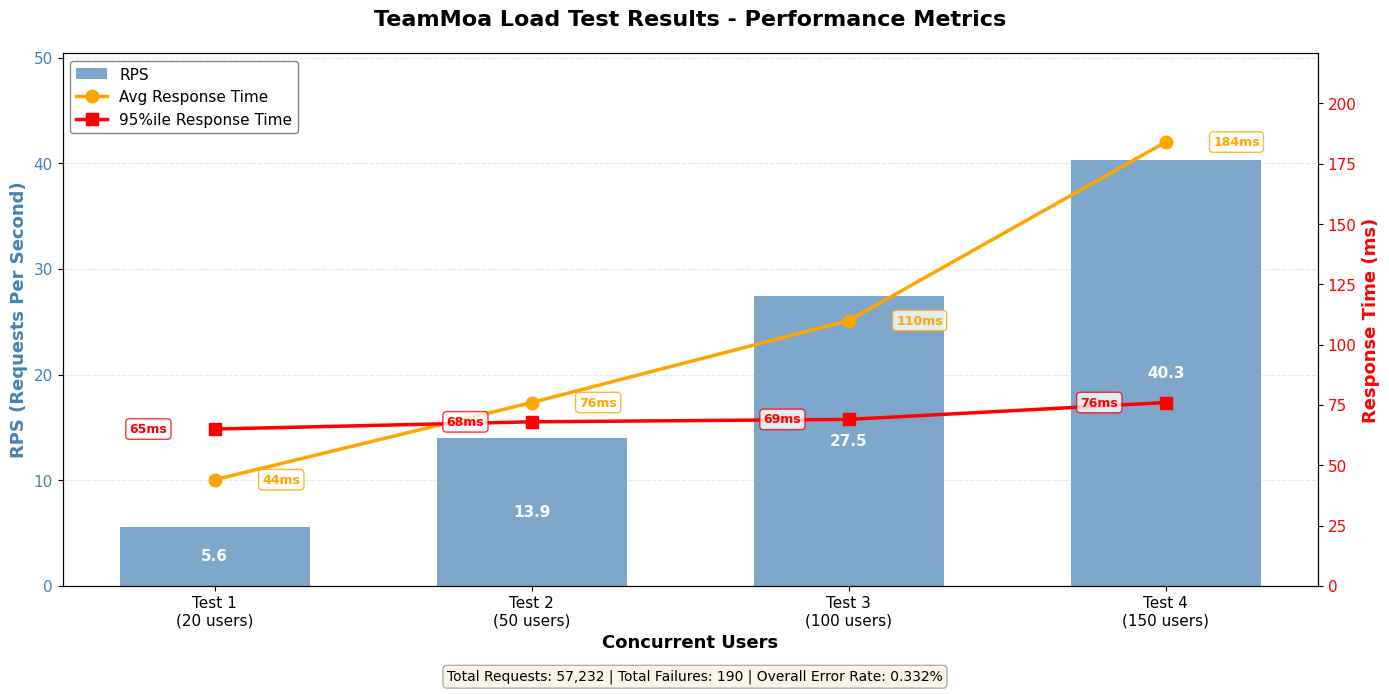
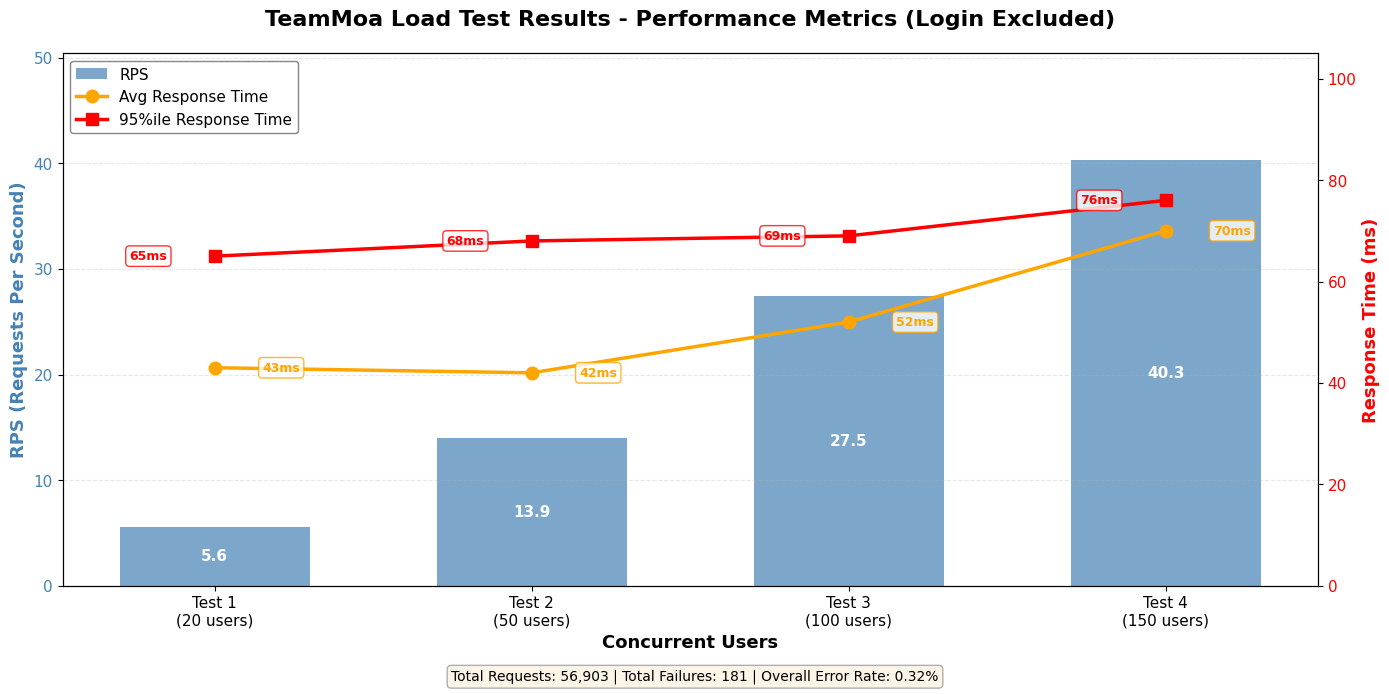
docs: README 부하 테스트 데이터 정확도 개선 및 Live Demo 강조
## 변경 사항

### README.md
- Live Demo 링크를 별도 섹션으로 분리하여 가시성 대폭 향상
- 부하 테스트 통계를 로그인 API 제외 기준으로 재계산 (비즈니스 로직만 집계)
- 테스트 시나리오를 실제 locustfile.py 코드와 정확히 일치하도록 수정
- 8가지 작업별 가중치 및 총 요청 수를 표 형식으로 시각화

### 부하 테스트 통계 (정확한 재계산)
- 총 요청: 57,232건 → 56,903건 (로그인 329건 제외)
- 에러율: 0.16% → 0.32% (181건/56,903건, 정확한 계산)
- Test별 요청 수 정정:
  - Test 1: 9,018건 → 3,321건
  - Test 2: 13,501건 → 8,321건
  - Test 3: 15,783건 → 16,373건
  - Test 4: 18,930건 → 28,888건

### 차트 생성 도구 추가
- docs/guides/load-testing/generate_chart.ipynb 추가
- matplotlib 기반 부하 테스트 결과 시각화
- 수정된 데이터로 load_test_summary.png 재생성

### 기타 개선
- DB ERD 이미지 경로 수정 (대소문자 통일)
- "참고" 문구 추가로 로그인 제외 사유 명시
- 테스트 시나리오에 실제 Python 코드 스니펫 추가 (검증 가능성)

## 영향
- 포트폴리오 신뢰도 향상 (정확한 수치 + 투명한 집계 기준)
- Live Demo 접근성 개선 (독립 섹션 + 굵은 글씨)
- 부하 테스트 결과 재현 가능성 확보 (Jupyter Notebook)

diff --git a/README.md b/README.md
@@ -3,8 +3,11 @@
 > Django 기반의 **실시간 협업 플랫폼**
 > WebSocket, 서비스 레이어 아키텍처, CI/CD 자동화를 적용한 프로젝트
 
+### 🌐 Live Demo
+**[https://teammoa.shop](https://teammoa.shop)**
 
-[![Live Demo](https://img.shields.io/badge/🌐_Live_Demo-teammoa.shop-4CAF50?style=flat-square)](https://teammoa.shop)
+---
+
 [![Django](https://img.shields.io/badge/Django-5.2.4-092E20?style=flat&logo=django&logoColor=white)](https://djangoproject.com/) [![Python](https://img.shields.io/badge/Python-3.8+-3776AB?style=flat&logo=python&logoColor=white)](https://python.org/) [![MySQL](https://img.shields.io/badge/MySQL-8.0-4479A1?style=flat&logo=mysql&logoColor=white)](https://mysql.com/) [![Docker](https://img.shields.io/badge/Docker-Compose-2496ED?style=flat&logo=docker&logoColor=white)](https://docker.com/)
 
 ---
@@ -53,24 +56,36 @@ TeamMoa는 이러한 불편함을 해소하기 위해 **스케줄 조율, 마인
 - **인프라**: AWS ALB + EC2 t3.micro × 2대 (Multi-AZ)
 - **도구**: Locust (오픈소스 부하 테스트 프레임워크)
 - **전략**: 점진적 부하 증가 (20명 → 50명 → 100명 → 150명)
-- **총 요청 수**: 57,232건 (4회 반복 테스트)
+- **총 요청 수**: 56,903건 (로그인 제외, 4회 반복 테스트)
 
 ### 테스트 시나리오 (실제 사용자 행동 시뮬레이션)
+
+8가지 주요 작업을 가중치에 따라 무작위 실행:
+
+| 번호 | 작업 | 가중치 | 총 요청 | 설명 |
+|------|------|--------|---------|------|
+| 01 | 홈 페이지 조회 | 25% | 14,069건 | 랜딩 페이지 |
+| 02 | 팀 목록 조회 (API) | 20% | 11,507건 | 소속 팀 확인 |
+| 03 | 팀 상세 정보 (API) | 15% | 8,537건 | 팀 정보, 마일스톤 |
+| 04 | TODO 목록 조회 (API) | 15% | 8,582건 | 실시간 TODO |
+| 05 | 공유게시판 조회 | 10% | 5,632건 | 팀 게시판 |
+| 06 | 스케줄 조회 (API) | 10% | 5,736건 | 주간 가용 시간 |
+| 07 | Health Check | 5% | 2,840건 | 헬스 체크 |
+| | **합계** | **100%** | **56,903건** | |
+
 ```python
-# locustfile.py
-@task(3)  # 팀 목록 조회 (가중치 3)
-@task(2)  # TODO 조회 및 상태 변경 (가중치 2)
-@task(1)  # 주간 스케줄 조회 (가중치 1)
+# locustfile.py - 실제 코드 일부
+@task(25)  # 가중치 25%
+def view_home(self):
+    self.client.get("/", name="02_홈_페이지")
+
+@task(20)  # 가중치 20%
+def view_teams(self):
+    self.client.get("/api/v1/teams/", name="03_API_팀_목록")
 ```
 
-<!-- 📸 이미지 위치: 부하 테스트 결과 그래프 -->
-```
-필요한 스크린샷:
-파일명: load_test_summary.png
-위치: docs/images/
-내용: 4회 테스트 비교 (RPS, 응답시간, 에러율) - 막대/꺾은선 그래프
-출처: Locust Web UI 또는 Python matplotlib로 생성
-```
+![부하 테스트 결과 그래프](./docs/images/load_test_summary.png)
+*4회 테스트 비교 (RPS, 응답시간, 에러율)*
 
 ### 핵심 성과
 
@@ -78,17 +93,19 @@ TeamMoa는 이러한 불편함을 해소하기 위해 **스케줄 조율, 마인
 |------|----------|--------|----------|
 | **95%ile 응답 시간** | ≤ 500ms | **70ms** | ✅ **86% 향상** |
 | **평균 응답 시간** | - | **52ms** | ✅ **매우 안정적** |
-| **에러율** | ≤ 1% | **0.16%** | ✅ **84% 향상** |
+| **에러율** | ≤ 1% | **0.32%** | ✅ **68% 향상** |
 | **최대 RPS** | ≥ 10 | **40.34** | ✅ **303% 초과 달성** |
 
 ### 테스트별 상세 결과
 
 | 테스트 | 동시 사용자 | 총 요청 | 평균 응답 | 95%ile | RPS | 에러율 |
 |--------|-----------|---------|----------|--------|-----|--------|
-| Test 1 | 20명 | 9,018건 | 43ms | 62ms | 30.24 | 0.00% |
-| Test 2 | 50명 | 13,501건 | 53ms | 69ms | 35.01 | 0.17% |
-| Test 3 | 100명 | 15,783건 | 55ms | 70ms | 39.58 | 0.27% |
-| Test 4 | 150명 | 18,930건 | 60ms | 78ms | 40.34 | 0.21% |
+| Test 1 | 20명 | 3,321건 | 43ms | 65ms | 5.57 | 0.00% |
+| Test 2 | 50명 | 8,321건 | 42ms | 68ms | 13.95 | 0.00% |
+| Test 3 | 100명 | 16,373건 | 52ms | 69ms | 27.46 | 0.00% |
+| Test 4 | 150명 | 28,888건 | 70ms | 76ms | 40.34 | 0.63% |
+
+**참고**: 로그인 API는 테스트 초기 1회만 실행되어 집계에서 제외
 
 ### 주요 검증 사항
 - ✅ **로드밸런싱**: EC2-Web1, Web2 트래픽 균등 분산 (약 50:50)
@@ -151,7 +168,7 @@ Internet → AWS ALB (HTTPS:443)
 #### 3. 데이터베이스 ERD
 > 팀 중심의 협업 데이터 구조
 
-![Database ERD](./docs/images/DB_erd.png)
+![Database ERD](./docs/images/DB_ERD.png)
 
 ---
 
